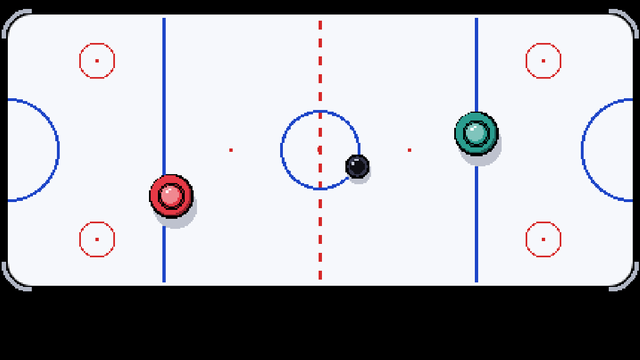
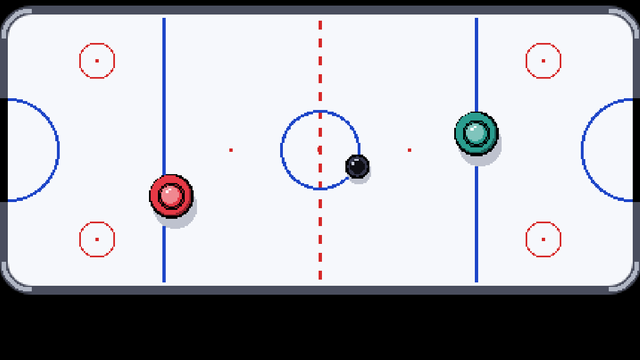
Review fixes for #123: dark gray Air Hockey rails, one shared bar, bar check in CI
Claude-Session: https://claude.ai/code/session_014Rw5rbsPcNau24V4XE2J14

Changed region(s): [[0.0, 0.0, 1.0, 0.275], [0.0, 0.55, 1.0, 0.825]]

diff --git a/CLAUDE.md b/CLAUDE.md
@@ -76,7 +76,7 @@ Tests the user has to run now (status on 2026-10-25 after run R4; the list is in
 | 30 | **New game.** Tower Builder with 1 to 4 phones: the tile against the game, a lost Wi-Fi during a turn (8a), the FPS with 4 phones, a child of 5 to 8 years, a tester reads the plates, the brick and the tower are pointed at, Hebrew from the sofa. The swing, the drop, the miss, the topple, the turn times, the 12 bricks, the medals and a player that leaves are automated (A-30-*) | Tower Builder was added on 2026-10-23 (`docs/games/tower_builder.md`). Needed before it is merged. All values (the swing, the 12 bricks, the slack of the joints), the pictures, the song and the Hebrew texts are first guesses |
 | 29 | **New game.** Sheep Herding with 1 to 4 phones: the tile against the game, a tester points at the gate, an adult herds all the sheep in the time (4 and 6a), the FPS with 4 phones, a child of 5 to 8 years, the how-to line, the Hebrew texts. The tilt times, how the sheep run, the buzz and the dog size are automated (A-29-*) | Sheep Herding was added on 2026-10-23 (`docs/games/sheep_herding.md`, issue #98). Needed before it is merged. All values (dog speed, the scare distance, the sheep speed, the gate, the time of a round), the pictures, the song and the Hebrew texts are first guesses; a Hebrew reader checks the 7 new texts |
 | 28 | **New game.** Whack-a-Mole with 1 to 4 phones: the tile against the game, a tester points at the holes and the golden mole, the delay of a bonk at 240 fps (4b), the settings view, the FPS with 4 phones, a child of 5 to 8 years, the pixel look from the sofa. The ring on the 9 holes, the bonk, a miss, the time a mole stays, the golden mole and the medals are automated (A-28-*) | Whack-a-Mole was added on 2026-10-23 (`docs/games/whack_a_mole.md`). Needed before it is merged. All values (the stay, the spawn time, the hit circle, the points), the pictures, the song and the Hebrew texts are first guesses |
-| 27 | **New game and the first bot.** Air Hockey with 1 to 4 phones: the tile against the game, the delay of the mallet at 240 fps (3b), the pixel look and the black puck from the sofa, a grown-up against ROBO on Easy (5 matches) and Hard (3 matches), the FPS with 4 phones, a child of 5 to 8 years, Hebrew. The enroll screen, the tilt, the puck, the goals, ROBO's purple color, a lost phone and the result menus are automated (A-27-*) | Air Hockey and ROBO were added on 2026-10-23 (`docs/games/air_hockey.md`, REQ-GM-105, 106). Needed before they are merged. All values (the mallet and puck physics, the goal size, the levels of ROBO), the pictures, the song, the effects and the Hebrew texts are first guesses |
+| 27 | **New game and the first bot.** Air Hockey with 1 to 4 phones: the tile against the game, the delay of the mallet at 240 fps (3b), the pixel look, the dark gray rails on the black floor (11d) and the black puck from the sofa, a grown-up against ROBO on Easy (5 matches) and Hard (3 matches), the FPS with 4 phones, a child of 5 to 8 years, Hebrew. The enroll screen, the tilt, the puck, the goals, ROBO's purple color, a lost phone and the result menus are automated (A-27-*) | Air Hockey and ROBO were added on 2026-10-23 (`docs/games/air_hockey.md`, REQ-GM-105, 106). Needed before they are merged. All values (the mallet and puck physics, the goal size, the levels of ROBO), the pictures, the song, the effects and the Hebrew texts are first guesses |
 | 26 | **New game.** Mini Golf with 1 to 4 phones: the aim by turning the phone and its lock at the back swing, the power of soft, medium and hard putts and the delay, the turns and the balls that wait, the 5 holes (walls, brick walls, rocks, turning blades, sliding barriers, windmill, lake and bridge), the words (birdie, par, bogey, hole in one, picked up), Easy, Medium and Hard help, the medal, a player that leaves, a child of 5 to 8 years, the pixel look from the sofa | Mini Golf was added on 2026-10-17 (`docs/games/mini_golf.md`). Needed before it is merged. It uses the swing detector of tests 23 and 24, so run test 24 first. All values (swing thresholds, putt speeds, friction, the hole designs), the pictures, the song and the Hebrew texts are first guesses |
 | 25 | **New game.** Tennis with 1 to 4 phones: toss with A and a serve swing from top to bottom, the hit window (the ring on the court, green and yellow, early and late swings), power and left or right aim, the characters that run by themselves, the ball and its shadow from the sofa, Real and Quick scoring, 2 against 1 and 2 against 2, the machine rally alone (medals), a player that leaves, a child of 5 to 8 years | Tennis was added on 2026-10-17 (`docs/games/tennis.md`). Needed before it is merged. It uses the swing detector of tests 23 and 24, so run test 24 first. All values (the hit window, the green zone, the ball speeds), the pictures, the song and the Hebrew texts are first guesses |
 | 24 | **New (swing detector for Tennis).** Debug overlay with 1 to 2 phones: no swing when still or walking, strokes (back, then forward) found with a power that grows from soft to hard, a serve from top to bottom says DOWN and a stroke from left to right does not, one swing for swing and back, a tap or shake is not a swing, a sharp push counts, the side value of a swing to the left and to the right, the delay in ms, an iPhone | The Pin Pals swing detector was moved to `scripts/input/` and used for Tennis on 2026-10-17 (`docs/games/tennis.md`, REQ-TN-5 to 9). Needed before Tennis is built on it. Every threshold is a first guess and is tuned from this test |
@@ -95,10 +95,10 @@ Tests the user has to run now (status on 2026-10-25 after run R4; the list is in
 | 10 | **Retest after R1 (new game); renamed Banana Party 2026-10-16 (jungle, animals, golden monkey).** Banana Party with 1 to 4 phones: the pointer (range, drift in cm), throws, the speed of the Puffs, 4-player frame rate, and item 9: a child of 5 to 8 years plays. R2 found that the last digit of a score above 3 digits was cut: fixed, check scores of 4 and 5 digits and a long phone name. New item 10: the settings view and Easy, Medium, Hard (REQ-SS-20 to 22). New item 11: the jungle look from the sofa | The owner found Target Shoot not playable (R1). It was redesigned on 2026-10-09 as Snowball Splat on branch `games/target-shoot`. Needed before it is merged. The first values (range 25 degrees, speeds, sizes, tiers) are guesses. On 2026-10-10 the world became a pixel world (phase 4 of the arcade style) |
 | 9 | **Changed 2026-10-15.** Car Race (was the 3D Marble Race) on a real TV, 1 to 4 phones: all 12 items (item 10 moved to the automated tests). Item 13 is new: the Theme row (Candy, Space, Jungle) and the matching obstacles, the cars that turn, the Hebrew texts. Item 12: the pixel look from the sofa and the frame rate. Item 9: the settings view with the 10 track sketches and the ?, Easy, Medium, Hard | The race became a flat pixel world with cars and three themes (REQ-MR-44 to 48). The tracks, the physics and the sounds are the same. Never run on a device. The cars (64 px), the obstacles (about 52 px), the colors and the Hebrew texts are first guesses |
 | 6 | Treasure Maze (was Tilt Maze, three themes Castle, Garden and Ice since 2026-10-15), the rest: item 4 (2 to 4 phones), item 5 (no RECENTER box, A and B do nothing) and the new item 6 (the settings view and Easy, Medium, Hard) and the new item 7 (the pixel look of the maze from the sofa, thicker walls; item 7i on a Mac: maximize the window, issue #45). Items 1 to 3 passed in R1 ('it works perfectly') | PR 12 removed the A shortcut. The settings view and the maze difficulty were added on 2026-10-09 (REQ-GM-90 to 95, REQ-MZ-9) |
-| 14 | **New game.** Paint Grab with 1 to 4 phones: the blob feel (too slow, fast or nervous), painting and taking tiles, Easy, Medium, Hard (floor size, speed), the result menu, a child of 5 to 8 years. New item 10: the pixel look of the floor from the sofa. New item 11 (2026-10-16): the hidden picture under the floor and the bonus pots | Paint Grab and `TiltBody` were added on 2026-10-09 on branch `games/paint-grab`. On 2026-10-10 the floor became a pixel world (phase 4 of the arcade style). All values are first guesses |
+| 14 | **New game.** Paint Grab with 1 to 4 phones: the blob feel (too slow, fast or nervous), painting and taking tiles, Easy, Medium, Hard (floor size, speed), the result menu, a child of 5 to 8 years. New item 10: the pixel look of the floor from the sofa. New item 12 (2026-10-29): the black bar at the top. New item 11 (2026-10-16): the hidden picture under the floor and the bonus pots | Paint Grab and `TiltBody` were added on 2026-10-09 on branch `games/paint-grab`. On 2026-10-10 the floor became a pixel world (phase 4 of the arcade style). All values are first guesses |
 | 15 | **New game.** Sumo Bumpers with 2 to 4 phones: the bump and the dash (too strong or weak), the fall and the banner, the length of a round and the wait after a fall, Easy, Medium, Hard, a child of 5 to 8 years. New item 11: the pixel world from the sofa (sharp pixels, readable numbers) | Sumo Bumpers was added on 2026-10-09 on branch `games/sumo-bumpers`. On 2026-10-10 its world became the first pixel world (phase 2 of the arcade style, REQ-GM-47i to 47n). All values are first guesses |
 | 11 | The result menus on a real TV: maze (1 to 4 phones) and race (4 phones): readable from the sofa and inside the screen edge. The rows, the titles, the medals and the 'No players connected' menu are automated (`docs/AUTOMATED_TESTS.md`, A-11-1 to A-11-7) | PR 12 (merged) made the result menu generic. The 4-player list was never seen on a TV |
-| 12 | Game tiles: compare each tile with the game. All ten games have a tile: Treasure Maze and Car Race were remade on 2026-10-09; Banana Party and Paint Grab were remade and Star Shield is new on 2026-10-16; Pin Pals, Tennis and Mini Golf are new (items 8 to 10), and Sheep Herding is new (item 11); Sumo Bumpers is unchanged | REQ-GM-49. Claude makes the tiles again when they differ |
+| 12 | Game tiles: compare each tile with the game. All ten games have a tile: Treasure Maze and Car Race were remade on 2026-10-09; Banana Party and Paint Grab were remade and Star Shield is new on 2026-10-16; Pin Pals, Tennis and Mini Golf are new (items 8 to 10), and Sheep Herding is new (item 11); Sumo Bumpers is unchanged; the tiles of Air Hockey and Paint Grab were made again on 2026-10-29 (item 4b) | REQ-GM-49. Claude makes the tiles again when they differ |
 | 3 | Sensor directions: items 1 and 4 (the flat Accel value after the fix, Gyro z) | R0 did not check them after the fix |
 | 4 | Latency and packet rate on a real TV box, and the delay with a 240 fps camera | R0 ran on a desktop and failed (RTT, Gap). Not representative |
 | 13 | Controller on an iPhone: deploy with `IOS_TEAM_ID=<id> tools/deploy-ios.sh`, join with the typed room code, sensor directions, lock and unlock | New on 2026-10-09. Written on a Mac without Xcode, so never run |

diff --git a/docs/MANUAL_TESTS.md b/docs/MANUAL_TESTS.md
@@ -558,6 +558,7 @@ A tile has a 16:9 picture. The colors and the objects of each tile file (the gro
 2. For each game, compare its tile with a photo of the game running. Check: the tile has the same background color and the same main objects as the photo (the objects are listed in A-12-3 to A-12-10 and in the steps below).
 3b. Check the tile of **Car Race**. Check: the road in the tile turns in a bend (as in Track 1, Hard), with a post beside it. (The 4 cars, the candy ground, the road and the outline of the posts are checked by A-12-3b.)
 4. Check the tile of **Banana Party**. Check: an animal was just hit (its peel shows) and a banana is in the air. (The jungle, the four cursor rings, the banana and the black outline of an animal are checked by A-12-4. The tile has no score and no "+10" text.)
+4b. Check the tiles of **Air Hockey** and **Paint Grab** (remade 2026-10-29, issue #123). Check: Air Hockey has a black floor and dark gray rails around the white table; Paint Grab shows no stars under a black bar. (REQ-GM-49)
 5. Check the tile of **Paint Grab**. Check: the hidden picture shows in the floor. (The floor, the bonus pot and the four blobs are checked by A-12-5.)
 8. Check the tile of **Pin Pals**. Check: the 10 pins stand in a triangle and the ball is between the foul line and the pins. (The lane and the white shapes are checked by A-12-8; the test counts 138 white blobs and does not count the 10 pins.)
 9. Check the tile of **Tennis**. Check: the ball is high over the near half of the court. (The grass, the court, the ball and the players are checked by A-12-9.)
@@ -575,6 +576,7 @@ Items 1a, 1b, 1d, 3a, 6 and 7 moved to the automated tests (`docs/AUTOMATED_TEST
 | 2 | Photos: tile next to the game, for each game | Pass | R4 |  |  |
 | 3b | Photo of the Car Race tile and of the running game | Pass | R4 |  | Same result as old item 3. Car Race and Maze tiles remade 2026-10-09 (4 cars on a bend with posts; 4 balls on the way to the exit). |
 | 4 | Photo of the tile and of the running game | Fail | R3 |  | R3: Fail - the tile shows 5 cursor rings instead of 4 Banana Party tile remade 2026-10-16 (a jungle, 4 players, a hit, a banana in the air). Issue #114. |
+| 4b | Photo of the two tiles and of the running games | Not run | | | Added 2026-10-29 (issue #123). |
 | 5 | Photo of the tile and of the running game | Pass | R4 |  | Paint Grab tile remade 2026-10-16. |
 | 8 | Photo of the Pin Pals tile next to a photo of the game | Fail | R4 |  | R4: Fail - in the tile show the bawling tracks without the score board but fill the tile. currently there's a gray area in the bottom which doesn't look good Issue #112. |
 | 9 | Photo of the Tennis tile next to a photo of the game | Pass | R4 |  |  |
@@ -662,6 +664,7 @@ difficulty values are first guesses. "Full tilt" means the phone is tilted about
 11b. At the end of the same rounds (the time is up, or the picture is painted), take a photo. Check: the same second person names the same picture in at least 4 of the 5 rounds. (REQ-PG-22)
 11g. Let the child of step 7 play 2 rounds with pots, without a hint about pots. Check: the child rolls over at least 1 pot within 10 seconds after it landed, and no picture makes the child upset (the child does not cover the eyes, cry or ask to stop). (REQ-PG-9, 22, 23)
 11h. **Paintable tiles (2026-10-27, REQ-PG-24, issue #130).** At the start of 5 rounds (nothing painted), from 3 m, ask a tester: "Where can you paint?". Check: the tester points at the lighter tiles (the picture) and not at the dark blocks in 5 of 5 rounds, and the ghost of the picture is faded (the lighter tiles are not brighter than the player colors).
+12. **The black bar (2026-10-29, issue #123, REQ-GM-45a).** Start a round and look at the top of the screen from 3 m. Check: the bar is black from the left edge to the right edge of the TV (yes or no), and no star of the picture or bonus pot shows inside the bar (yes or no). (REQ-GM-45a)
 
 Items 1, 2, 9 moved to the automated tests (`docs/AUTOMATED_TESTS.md`, A-14-1, A-14-2, A-14-9). Items 3a to 3c, 4a, 4c, 5a to 5c, 6a to 6c, 10a, 10c and 11c to 11f moved there too (A-14-3, A-14-4, A-14-5, A-14-6, A-14-10, A-14-11). Item 10b was split: the machine checks the rule (A-14-10), and the part that needs a person is now 10d. Item 4b was split earlier into the rule (A-14-4) and 4c; both are automated now. The numbers of the other items do not change.
 
@@ -677,6 +680,7 @@ Items 1, 2, 9 moved to the automated tests (`docs/AUTOMATED_TESTS.md`, A-14-1, A
 | 11b | Photos at the end of 5 rounds; the names that were given | Not run | | | Added 2026-10-16 (REQ-PG-22, 23). The shapes, the colors and the pot values are first guesses. |
 | 11g | Note: the child, the time to the first pot, what happened | Not run | | | Added 2026-10-16 (REQ-PG-22, 23). The shapes, the colors and the pot values are first guesses. |
 | 11h | Note: the answers of the tester in 5 rounds | Not run | | | Added 2026-10-27 (issue #130). The faded values (0.22 to 0.34) are first guesses. |
+| 12 | Photo of the top of the screen | Not run | | | Added 2026-10-29 (issue #123). The shell draws the bar over the floor. |
 
 Measurements (not a test; no pass or fail). Write these values in the Notes column of the steps above. They decide the first tuning values of the game.
 
@@ -1278,7 +1282,7 @@ New game (2026-10-23), and the first game with a computer player. It was tested 
 
 **Steps**
 
-1a. Put the tile next to the game screen (REQ-GM-49). Check: the tile and the game show the same four things: the white table, the black rails, the mallets and the black puck.
+1a. Put the tile next to the game screen (REQ-GM-49). Check: the tile and the game show the same four things: the white table, the dark gray rails, the mallets and the black puck.
 3b. Record a phone and the TV (240 fps) for 5 quick tilts. Count the frames from the start of the tilt to the first move of the mallet. Check: the median delay is 150 ms or less (36 frames at 240 fps). (REQ-GM-12)
 6b. Set Difficulty to Easy and goals to 5. A grown-up plays 5 matches. Check: the grown-up wins 5 of 5. Write down the goals ROBO scored in each match. (REQ-AH-17, REQ-GM-96)
 6c. Set Difficulty to Hard and goals to 5. A grown-up plays 3 matches. Check: ROBO scores 2 goals or more in each of the 3 matches. Write down who won each match. (REQ-AH-17)
@@ -1288,8 +1292,9 @@ New game (2026-10-23), and the first game with a computer player. It was tested 
 9d. After the match, ask: "Play again?". Check: the child says yes.
 10. Play with 1 phone on the TV box and open the debug overlay. Check: the FPS value is 55 or more for 30 s. (REQ-GM-50) The cost of a frame with 4 phones on Hard is automated (A-27-10, issue #132).
 11a. **Pixel world (REQ-GM-47i to 47n).** From 3 m, a tester points at the puck each time you say "mark" while it moves. Check: the finger points at the puck in 5 of 5 tries. Check: the puck is 48 px or more high on the screen at 1080p (photo with a ruler on a 1080p TV: 68 px expected). (REQ-GM-47e, REQ-AH-20)
-11b. From 3 m, ask a tester to tell the puck from the red and blue lines of the table: the tester points at the puck and then at the red middle line. Check: both answers are right for every tester. (REQ-AH-20)
+11b. From 3 m, ask a tester to tell the puck from the red and blue lines of the table and from the dark gray rails and the black floor: the tester points at the puck and then at the red middle line. Check: both answers are right for every tester. (REQ-AH-20)
 11c. From 3 m, read aloud the two chips, "FIRST TO N" and one goal banner. Check: no error when reading. (REQ-AH-21, REQ-FL-40)
+11d. **Black floor (2026-10-29, issue #123, REQ-AH-20).** From 3 m, a tester points at the left goal opening, the top rail and the floor outside the table. Check: the tester points at all 3 right (3 of 3), and the black puck is seen at every moment it is over a rail (yes or no). (REQ-AH-20)
 12. Set the TV language to Hebrew and start a match. Check: the left player's goal is still on the left (the table is not mirrored), the title and "FIRST TO N" are mirrored to the right side, and no text is cut (3 of 3). A person who reads Hebrew also checks the words: "הוקי אוויר", "רובו", "שער של ...!". (REQ-AH-21, REQ-GM-47o)
 
 Items 2a, 2b, 2c, 3a, 3c, 4a, 4b, 4c, 4d, 5a, 6a, 6d, 7a, 7b, 8a, 8b and 13 moved to the automated tests (`docs/AUTOMATED_TESTS.md`, A-27-*). The numbers of the other items do not change.
@@ -1329,6 +1334,7 @@ History:
 | 11a | Note: right answers of 5; photo of the puck with its height in px | Not run | | | |
 | 11b | Note: answers of each tester | Not run | | | |
 | 11c | Note: errors made when reading | Not run | | | |
+| 11d | Note: the answers of the tester; photo of the table from 3 m | Not run | | | Added 2026-10-29 (issue #123). The rails are dark gray `#4a4e5e` (a first guess) on the black floor. |
 | 12 | Photo of the TV in Hebrew; note: words that a reader changed | Not run | | | |
 
 History:

diff --git a/docs/GAME_REQUIREMENTS.md b/docs/GAME_REQUIREMENTS.md
@@ -70,7 +70,7 @@ Visual language (decision FD-14 in `docs/TV_FLOW.md`). Three tiers:
 The 8-bit arcade style (FD-18) changed REQ-GM-45 and 46 (the shell) in phase 1. REQ-GM-47i to 47n (pixel worlds, a low-resolution game view) are new in phase 2 and apply to a game whose world is drawn in the pixel view (Sumo Bumpers first, Marble Race in phase 3; every 3D game is drawn in it). All five games are restyled (phases 2 to 4), so REQ-GM-47a, 47b, 47d (the neutral colors) and 47f are kept only for history and for a game that does not use the pixel view; a new game uses the pixel view. See `docs/ARCADE_STYLE_PLAN.md`.
 
 - REQ-GM-45: Tier 1, the game shell (required). A game uses the shared shell for its pause menu, countdown (when it has one, REQ-GM-35), result screen, HUD text and score chips. It does not draw its own versions. The shell is part of `minigame.gd`, `minigame_3d.gd` and `shell.gd`, and it uses the arcade style (`UiTheme`, FD-18): the menus are text menus with a cursor in a double frame (REQ-FL-38, 41), the HUD text is 32 px, the countdown is 256 px and settles in 4 steps (REQ-FL-42), and all text is upper case. A hint at the bottom wraps to more lines when it is long.
-- REQ-GM-45a: Tier 1, the black bar (required, owner, 2026-10-29, issue #123). Every pixel game has a black bar at the top, 112 units high (`Minigame.HUD_BAR_H`) and as wide as the window on any window size, for the title, the timer and the chips. The shell draws it over the world (a game cannot leave it out or draw its world into it), so every game looks the same at the top. A game still draws its own world below it (the world may reach under the bar, as in Star Shield). Checked by `pixel_games` (the render lane: the two edge columns of the bar are black in all games, in English and in Hebrew).
+- REQ-GM-45a: Tier 1, the black bar (required, owner, 2026-10-29, issue #123). Every pixel game has a black bar at the top, 112 units high (`Minigame.HUD_BAR_H`, the one constant: games and looks use it for their layout and draw no bar of their own) and as wide as the window on any window size, for the title, the timer and the chips. The shell draws it over the world (a game cannot leave it out or draw its world into it), so every game looks the same at the top. A game still draws its own world below it (the world may reach under the bar, as in Star Shield). A game without a pixel view (a 3D game) is not covered by this requirement. Checked by `pixel_render` (CI, 1080p and 4K) and `pixel_games`: the two edge columns of the bar are black in all games, in English and in Hebrew.
 - REQ-GM-46: Tier 1. Everything that belongs to a player (marble, ball, cursor, score) uses the slot color from `Protocol`. A name or score chip is a black box with a 4 px `TEXT` frame, a square (24 px) in the slot color, the avatar of the player when there is one (REQ-GM-46b) and the text in `TEXT` (`Shell.chip`), because text on the slot colors has too little contrast in some pairs. The slot colors differ pairwise by a delta E (CIE76) of 25 or more, and each differs from an empty tile of the game by 40 or more (`auto_paint`, `auto_sumo`, `auto_asteroid` assert this). A player object (ball, marble, blob, bumper, cursor) shows **no number and no avatar**: players are told apart by the slot color alone; the name is on the chips. The countdown has no name tags: they were removed on 2026-10-21 (decision of the owner, Alon), because the players are told apart by the slot color (`tests/hud_layout.gd` checks that the countdown draws no name). A 2D ball is drawn with `Shell.ball()`. The HUD shows **one** chip, the leader chip (FD-21): the name and the score of the player in first place, or `TIE` with a gray square and the score when two or more players share first place. It is drawn by one function, `Shell.leader_chip()`, called by `Minigame.draw_leader_chip()`; a game returns its `Scoreboard` from `_scoreboard()` and gives no chip text of its own. The chip is as wide as its content (at least 200 px) and nothing in it is cut: a name of 12 characters (the longest the TV shows: 10 and a number, FD-22) and a score of 5 digits fit in one row, right of the title and the timer, and the chip ends at the right 60 px margin. A game with no score during play (the maze) returns no board and has no chip. The chip is also hidden while the best score is 0 (and in a race while no marble is ahead of the others), so a game starts without a chip and TIE never shows at 0 (`Scoreboard.has_lead()`). The HUD never needs a second row, so the play area is the screen inside the margin under one HUD row (about y 150). The score of each player is on that player's phone (REQ-FL-67), and all scores are in the result menu (REQ-GM-72). The meaning of accent, OK and BAD is the same in all games (REQ-GM-44).
 - REQ-GM-46b: Tier 1. A chip with a player (the leader chip) shows the avatar of the profile next to the color square, 32 px (a 16 px picture at 2x, sharp pixels), before the name (`Shell.chip()`, `Shell.has_chip_avatar()`); a guest, a tie and an unknown avatar have no picture and the chip is as before. The chip grows by the picture and the name is never cut. A chip is drawn left to right in Hebrew too. Tests: `tests/game_helpers.gd`.
 - REQ-GM-47: Tier 2, a toy-like world (required). A "key object" is a player object, a goal or a hazard. Values are for 1920x1080 and for the first version. The marble race trial (REQ-FL-47) checks them, and a change needs a change of this file in the same commit. The sub-requirements are 47a to 47h (toy-like worlds) and 47i to 47n (pixel worlds). In a pixel world, 47i to 47n replace 47a, 47b, 47d (the neutral colors) and 47f. A 3D world is a pixel world too: 47c (the outline hull), 47g and 47h stay, and 47j to 47l do not apply to meshes.

diff --git a/docs/games/air_hockey.md b/docs/games/air_hockey.md
@@ -73,7 +73,7 @@ Settings, leaving and look
 |----|-------------|--------|-------|
 | REQ-AH-18 | The settings view has Difficulty and **Goals** (3 to 10, 5 at the start; props `difficulty` and `goals`; the row stops at 3 and at 10; the value shows only the number, "5", key `air_hockey.goals_value`, issue #144). The line under the name is `how_to.air_hockey`. There is no IN and OUT (REQ-GM-106). | Done | smoke_air_hockey |
 | REQ-AH-19 | A lost phone pauses the match (REQ-GM-30): nothing runs. The card has End game, and Resume only when every player is connected again; it never offers "Resume without ...". A player that left for good (its slot was freed, REQ-GM-30a) ends the match: the result menu names the player that stays as the winner, with no medal. Against ROBO, when the only phone leaves, "No players connected" opens (REQ-GM-22). Before the match starts, a leave only changes who can enroll; with one phone left it is enrolled at once. | Done | smoke_air_hockey |
-| REQ-AH-20 | Look (mock v5): a white table with rounded corners and black rails with silver corner caps on a black floor (the blue `#1b3a8a` of mock v5 was changed to black by the owner on 2026-10-29, to look like the other games); a red dashed middle line, a blue center circle with a red dot, blue lines at the thirds, blue goal creases, red face-off circles and dots; the goal openings are gaps in the rails. A mallet has a black outline, a base in the slot color with a darker lower edge, a groove, a knob with a shine and a soft shadow; the puck is black with a bevel, a darker top and a shine. All of it is drawn in the 480x270 pixel view (REQ-GM-47i). | Done | smoke_air_hockey (the view), Device (the look, Test 27) |
+| REQ-AH-20 | Look (mock v5): a white table with rounded corners and dark gray rails (`#4a4e5e`, owner, 2026-10-29) with silver corner caps on a black floor (the blue `#1b3a8a` of mock v5 was changed to black by the owner on 2026-10-29, to look like the other games); a red dashed middle line, a blue center circle with a red dot, blue lines at the thirds, blue goal creases, red face-off circles and dots; the goal openings are gaps in the rails. A mallet has a black outline, a base in the slot color with a darker lower edge, a groove, a knob with a shine and a soft shadow; the puck is black with a bevel, a darker top and a shine. All of it is drawn in the 480x270 pixel view (REQ-GM-47i). | Done | smoke_air_hockey (the view), Device (the look, Test 27) |
 | REQ-AH-21 | HUD: the title (REQ-GM-45), "FIRST TO N" in the place of the timer (REQ-GM-47o), one chip under each goal with the color square, the name (the avatar when the player has one) and the goals, the leader chip with two phones, the goal banner (72 px) in the middle, and one hint line "TILT TO SLIDE YOUR MALLET AND HIT THE PUCK!" for 6 s at the start. The table is not mirrored in Hebrew (the world is not mirrored, REQ-GM-47o); the HUD text is. All text is 32 px or larger and inside the 60 px margin. | Done | smoke_air_hockey, hud_layout |
 | REQ-AH-22 | Personal best (REQ-GM-98): none (`best_key()` is empty), see the exception above. | Done | smoke_bests |
 

diff --git a/docs/AUTOMATED_TESTS.md b/docs/AUTOMATED_TESTS.md
@@ -337,7 +337,7 @@ There is no `build-android` job on CircleCI (the APK export is off). A documenta
 | A-22-5f | Test 22 item 5f | `auto_asteroid`: "the buzzes" (a shield taken gives the ring and one 30 ms buzz, see A-22-5) |
 | A-22-8e | Test 22 item 8e | `r4_asteroid`: a player who plays alone sees "Reached wave N" where N is the number of the last wave banner. A single player gets no medal at any score (`auto_asteroid`); with two players the places get gold and silver |
 | A-22-1b, 12f; 23-1b; 25-1b; 26-1b | Test 22 items 1b, 12f; Test 23 item 1b; Test 25 item 1b; Test 26 item 1b (the colors; the steps stay) | `pixel_games` (render lane, NOT in `tests/suites.txt`): 3 of the 6 main colors of the tile are main colors of the game screen, and for Star Shield the world changes color only at the borders of its pixel blocks (the edges of the ship and of an asteroid are steps). "The tile and the game show the same four things" stays manual (REQ-GM-49) |
-| A-GM-45a | REQ-GM-45a (issue #123): the black bar at the top of every game reaches both screen edges, in English and in Hebrew (no manual step; the look of Air Hockey on the black floor is in Test 27) | `pixel_games` (render lane): "en: the black bar reaches both edges in every game", "he: the black bar reaches both edges in every game" |
+| A-GM-45a | REQ-GM-45a (issue #123): the black bar at the top of every game reaches both screen edges, in English and in Hebrew (no manual step; the look of Air Hockey on the black floor is in Test 27) | `pixel_render` (CI, 1080p and 4K) and `pixel_games` (render lane): "en: the black bar reaches both edges in every game", "he: the black bar reaches both edges in every game" |
 | A-23-1a | Test 23 item 1a | `smoke_bowling`: "Pin Pals opens the settings view with Difficulty on Medium and Rails off (REQ-BW-16, 17)" |
 | A-23-6a, 6c | Test 23 items 6a, 6c | `r4_bowling`: the total on the score sheet of 12 whole games against an independent count; after the last ball of frame 10 the top bar says "Frame 10/10" and the result menu opens in 1 to 3 s (REQ-BW-1). Known bug: the menu opens after 3.8 s, so the check of 6c fails |
 | A-23-7a, 7b | Test 23 items 7a, 7b | `r4_bowling`: with Rails On, 5 balls aimed to the end of the path each touch a rail and roll back into the lane, 0 in the gutter (REQ-BW-10); a game with Rails On has no personal best on the result menu and the phone shows no NEW BEST! (REQ-BW-19, also A-23-14) |
